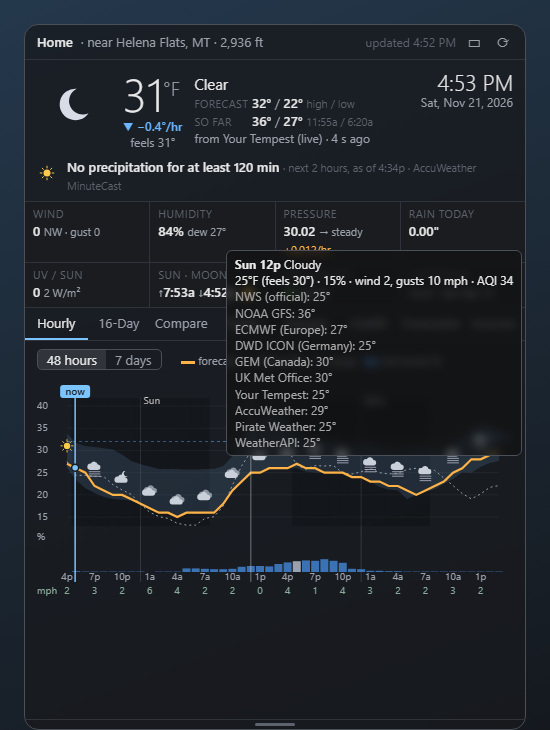
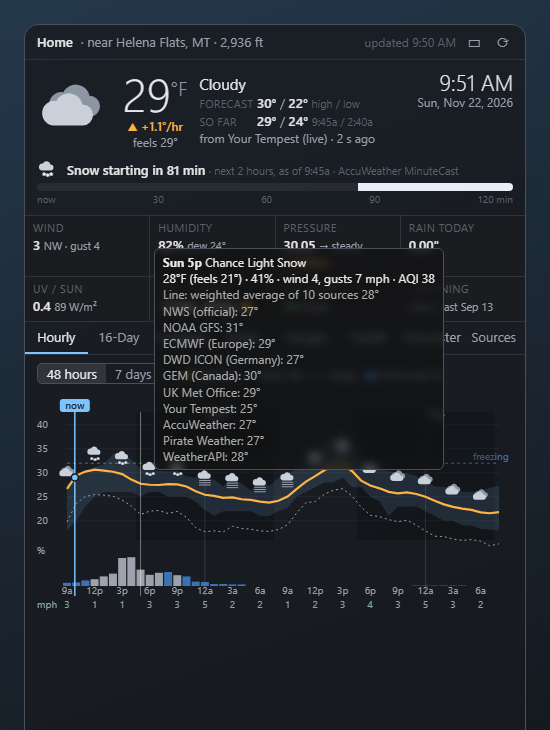
Hourly line: weighted average of all sources, starting from the station's reading
- 48 h / 7 day line is the accuracy-weighted average of every source (plain average when weighting is off), nudged to the station's live reading at now and blending back over 6 hours; feels-like moves with it; tooltip and legend explain it
- Day-ahead hourly forecast archive saves the all-source average (was NWS)
- Gauges: new 72 h graphs (Tempest history fetched for 72 h; own logs kept 74 h; day-ahead forecast overlay covers 3 days)
- 16-Day: tooltip on each day's bar explaining the bar, colours and spread ticks
- README and screenshots updated

diff --git a/panel.html b/panel.html
@@ -110,7 +110,8 @@
   .day .txt { color: var(--dim); overflow: hidden; white-space: nowrap; text-overflow: ellipsis; }
   .day .pop { color: var(--rain); text-align: right; }
   .day .lo { color: var(--cold); text-align: right; } .day .hi { color: var(--warm); }
-  .bar { position: relative; height: 6px; background: var(--track); border-radius: 3px; }
+  .bar { position: relative; height: 6px; background: var(--track); border-radius: 3px; cursor: help; }
+  .bar::before { content: ""; position: absolute; inset: -9px 0; }   /* a taller area for the tooltip */
   .bar .rng { position: absolute; top: 0; height: 6px; border-radius: 3px; }
   .bar .sp { position: absolute; top: -3px; height: 12px; border-left: 1px solid var(--mark); border-right: 1px solid var(--mark); }
   .dot { width: 8px; height: 8px; border-radius: 50%; }
@@ -443,13 +444,16 @@ function renderHourly(force) {
   }
   s += `<line id="cur" y1="${top - 8}" y2="${bot - 18}" style="stroke:var(--ccur)" visibility="hidden"/>`;
   $("t-hourly").innerHTML = `<div><span class="seg" id="span"><span data-h="48" class="${hourSpan === 48 ? "on" : ""}">48 hours</span><span data-h="168" class="${hourSpan === 168 ? "on" : ""}">7 days</span></span>
-    <span class="legend"><i style="background:var(--ctemp)"></i>forecast<i style="height:0;border-top:2px dotted var(--cfeels)" title="Wind chill when cold and windy, heat index when hot and humid; otherwise the same as the temperature"></i><span title="Wind chill when cold and windy, heat index when hot and humid; otherwise the same as the temperature">feels like</span><i style="background:var(--cband);height:8px"></i><span title="The shaded band: the lowest to highest temperature any source forecasts for that hour">range</span><i style="background:var(--crainbar);height:8px"></i><span title="Bars: chance of rain or snow (white bars = snow)">rain/snow %</span></span></div>
+    <span class="legend"><i style="background:var(--ctemp)"></i><span title="${esc(LINE_EXPLAIN)}">forecast</span><i style="height:0;border-top:2px dotted var(--cfeels)" title="Wind chill when cold and windy, heat index when hot and humid; otherwise the same as the temperature"></i><span title="Wind chill when cold and windy, heat index when hot and humid; otherwise the same as the temperature">feels like</span><i style="background:var(--cband);height:8px"></i><span title="The shaded band: the lowest to highest temperature any source forecasts for that hour">range</span><i style="background:var(--crainbar);height:8px"></i><span title="Bars: chance of rain or snow (white bars = snow)">rain/snow %</span></span></div>
     <svg id="hsvg" width="${W}" height="${bot}">${s}</svg>`;
   const svg = $("hsvg"), tip = $("tip");
   svg.onmousemove = e => {
     const r = svg.getBoundingClientRect(), i = Math.max(0, Math.min(H.length - 1, Math.round((e.clientX - r.left - 30) / ((W - 44) / (H.length - 1))))), h = H[i];
     const c = $("cur"); c.setAttribute("x1", x(i)); c.setAttribute("x2", x(i)); c.setAttribute("visibility", "visible");
-    const by = Object.entries(h.by || {}).map(([k, v]) => `<div style="color:#aaa">${k}: ${f0(v)}°</div>`).join("");
+    const nb = Object.keys(h.by || {}).length;
+    const how = `<div style="color:#aaa">Line: ${W ? "weighted " : ""}average of ${nb} source${nb === 1 ? "" : "s"} ${f0(h.temp_avg)}°` +
+      (Math.abs(h.adj) >= 0.5 ? `, moved ${h.adj > 0 ? "+" : ""}${h.adj.toFixed(0)}° toward your station's reading now` : "") + `</div>`;
+    const by = how + Object.entries(h.by || {}).map(([k, v]) => `<div style="color:#aaa">${k}: ${f0(v)}°</div>`).join("");
     tip.innerHTML = `<b>${dayName(h.t.slice(0, 10))} ${hourLabel(h.t)}</b> ${esc(h.text || "")}<br>${f0(h.temp)}°F (feels ${f0(h.feels)}°) · ${h.pop ?? 0}% · wind ${f0(h.wind)}${h.gust > h.wind ? ", gusts " + f0(h.gust) : ""} mph${h.aqi != null ? " · AQI " + h.aqi : ""}${by}`;
     tip.style.display = "block";
     const z = +document.body.style.zoom || 1, vw = innerWidth / z, vh = innerHeight / z;
@@ -476,7 +480,10 @@ function renderDaily() {
       <div>${icon(d.icon, 24)}</div><div class="txt" title="${esc(txt)}">${esc(txt)}</div>
       <div class="pop">${d.pop ? d.pop + "%" : ""}</div>
       <div class="lo">${f0(d.lo)}°</div>
-      <div class="bar"><div class="sp" style="left:${pct(d.lo_min ?? d.lo)}%;width:${pct(d.hi_max ?? d.hi) - pct(d.lo_min ?? d.lo)}%"></div>
+      <div class="bar" title="${esc(`${name}: low ${f0(d.lo)}°, high ${f0(d.hi)}° (${W ? "average of all sources, weighted so the most accurate ones count more" : "average of all sources"}).\n` +
+        `Coloured bar: from the low to the high, shaded blue (cold) through to red (warm).\n` +
+        (d.lo_min != null || d.hi_max != null ? `Thin tick marks at each end: the full spread of what the sources predict, from the coldest low (${f0(d.lo_min ?? d.lo)}°) to the warmest high (${f0(d.hi_max ?? d.hi)}°). Ticks far from the coloured bar mean the sources disagree.\n` : "") +
+        `The grey track is the same scale for every day (coldest to warmest of the 16 days), so further right = warmer.`)}"><div class="sp" style="left:${pct(d.lo_min ?? d.lo)}%;width:${pct(d.hi_max ?? d.hi) - pct(d.lo_min ?? d.lo)}%"></div>
         <div class="rng" style="left:${pct(d.lo)}%;width:${Math.max(2, pct(d.hi) - pct(d.lo))}%;background:linear-gradient(90deg,${tempColor(d.lo)},${tempColor(d.hi)})"></div></div>
       <div class="hi">${f0(d.hi)}°</div>
       <div class="dot" title="${esc(`How well the sources agree on this day: ${{ good: "GOOD", fair: "FAIR", low: "LOW" }[d.agree] || "–"}\n` +
@@ -552,6 +559,44 @@ function applyWeights() {
         if (v[k] != null) { const w = W[s] ?? W._typical; sum += v[k] * w; wsum += w; }
       if (wsum) d[k] = Math.round(sum / wsum);
     }
+  hourlyLine();
+  for (const h of D.hourly) {      // feels-like moves with the line (it came from the model's own temperature)
+    if (h.feels_raw === undefined) h.feels_raw = h.feels;
+    if (h.feels_raw != null) h.feels = h.feels_raw + h.temp - (h.temp_model ?? h.temp_nws);
+  }
+}
+// The hourly temperature line: the same (weighted) average of every source for each hour, then
+// nudged to your station's actual reading - fully at "now", fading out over the next BLEND_H hours.
+const BLEND_H = 6;
+const LINE_EXPLAIN = "The line: for each hour, the average of every source's forecast, weighted so the sources " +
+  "that have been most accurate at your place count more (switch on the Compare tab).\n" +
+  "Near now it also starts from your station's actual reading and blends back into the forecast over " +
+  "the next 6 hours, so the line doesn't start off from where the temperature really is.\n" +
+  "Sky, icons and rain chances still follow the National Weather Service where it has hours.";
+let blend = null;    // {off, until} when the station nudge is in use (for tooltips)
+function hourlyLine() {
+  for (const h of D.hourly) {
+    if (h.temp_nws === undefined) h.temp_nws = h.temp;     // what the backend sent (NWS where it has hours)
+    let sum = 0, wsum = 0;
+    for (const [s, v] of Object.entries(h.by || {}))
+      if (v != null) { const w = W ? (W[s] ?? W._typical) : 1; sum += v * w; wsum += w; }
+    h.temp_avg = wsum ? sum / wsum : h.temp_nws;
+    h.temp = h.temp_avg; h.adj = 0;
+  }
+  blend = null;
+  const n = D.now, H = D.hourly;
+  if (!n || n.temp == null || /model/i.test(n.station || "") || !H.length) return;
+  const nowMs = Date.now(), age = (nowMs - new Date(n.time)) / 60000;
+  if (!(age < 60)) return;                                  // only a fresh reading
+  const frac = (nowMs - new Date(H[0].t)) / 3600000, i0 = Math.floor(frac);
+  if (frac < 0 || i0 >= H.length - 1) return;
+  const fc = H[i0].temp + (H[i0 + 1].temp - H[i0].temp) * (frac - i0);
+  const off = n.temp - fc;
+  if (Math.abs(off) > 25) return;                           // a station glitch, not weather
+  H.forEach(h => { const ahead = (new Date(h.t) - nowMs) / 3600000;
+    const f = ahead <= 0 ? 1 : Math.max(0, 1 - ahead / BLEND_H);
+    h.adj = off * f; h.temp = h.temp_avg + h.adj; });
+  blend = { off, station: n.station, until: new Date(nowMs + BLEND_H * 3600000) };
 }
 const shareOf = s => { if (!W) return null; const tot = Object.keys(D.days[1]?.by || {}).reduce((t, x) => t + (W[x] ?? W._typical), 0);
   return Math.round((W[s] ?? W._typical) / tot * 100); };
@@ -801,9 +846,12 @@ function mercuryTubes(n, g) {
   return `<svg viewBox="0 0 ${W} ${H}" style="width:100%;height:auto;display:block">${s}</svg>`;
 }
 
-// Trend graphs: the last 24 hours of pressure, temperature and wind.
-function trendGraphs(n, g) {
-  const W = Math.max(320, innerW()), now = Date.now() / 1000, t0 = now - 24 * 3600;
+// Trend graphs: the last 24 or 72 hours of pressure, temperature and wind.
+function trendGraphs(n, g, hours = 24) {
+  const W = Math.max(320, innerW()), now = Date.now() / 1000, t0 = now - hours * 3600;
+  const every = hours > 24 ? 12 : 6, bw = hours > 24 ? 1.5 : 3;
+  const lab = e => { const d = new Date(e * 1000), hr = d.toLocaleTimeString("en-US", { hour: "numeric" });
+    return hours > 24 ? d.toLocaleDateString("en-US", { weekday: "short" }) + " " + hr.replace(" ", "").replace("M", "").toLowerCase() : hr; };
   const chart = (title, rows, series, opts) => {
     const pts = rows.filter(r => r[0] >= t0);
     if (pts.length < 2) return `<div class="gcap">${title}: not enough history yet</div>`;
@@ -824,15 +872,15 @@ function trendGraphs(n, g) {
       <text x="${W - Rr}" y="14" text-anchor="end" style="fill:var(--dim);font-size:11px">${opts.summary}</text>`;
     for (let k = 0; k <= 4; k++) { const v = lo + (hi - lo) * k / 4, y = Y(v);
       s += `<line x1="${L}" x2="${W - Rr}" y1="${y}" y2="${y}" style="stroke:var(--cgrid)"/><text x="${L - 4}" y="${y + 3}" text-anchor="end" style="fill:var(--faint);font-size:9px">${opts.fmt(v)}</text>`; }
-    for (let hAgo = 24; hAgo >= 0; hAgo -= 6) { const x = X(now - hAgo * 3600);
-      s += `<line x1="${x}" x2="${x}" y1="${T}" y2="${T + ih}" style="stroke:var(--cgrid)"/><text x="${x}" y="${h - 4}" text-anchor="middle" style="fill:var(--faint);font-size:9px">${hAgo ? new Date((now - hAgo * 3600) * 1000).toLocaleTimeString("en-US", { hour: "numeric" }) : "now"}</text>`; }
+    for (let hAgo = hours; hAgo >= 0; hAgo -= every) { const x = X(now - hAgo * 3600);
+      s += `<line x1="${x}" x2="${x}" y1="${T}" y2="${T + ih}" style="stroke:var(--cgrid)"/><text x="${x}" y="${h - 4}" text-anchor="middle" style="fill:var(--faint);font-size:9px">${hAgo ? lab(now - hAgo * 3600) : "now"}</text>`; }
     if (ov.length > 1) {
       const xs = r => Math.max(L, Math.min(W - Rr, X(r[0])));
       s += `<path d="M${ov.map(r => `${xs(r).toFixed(1)} ${Y(r[1]).toFixed(1)}`).join("L")}" fill="none" style="stroke:${opts.overlay.c}" stroke-width="1.8" stroke-dasharray="2 3"/>`;
     }
     for (const sr of series) {
       const p = pts.filter(r => r[sr.i] != null);
-      if (sr.bars) s += p.map(r => `<rect x="${X(r[0]) - 1.5}" y="${Y(r[sr.i])}" width="3" height="${T + ih - Y(r[sr.i])}" style="fill:${sr.c}" opacity=".55"/>`).join("");
+      if (sr.bars) s += p.map(r => `<rect x="${X(r[0]) - bw / 2}" y="${Y(r[sr.i])}" width="${bw}" height="${T + ih - Y(r[sr.i])}" style="fill:${sr.c}" opacity=".55"/>`).join("");
       else s += `<path d="M${p.map(r => `${X(r[0]).toFixed(1)} ${Y(r[sr.i]).toFixed(1)}`).join("L")}" fill="none" style="stroke:${sr.c}" stroke-width="2"/>`;
     }
     for (const m of opts.marks || []) if (m.v != null) s += `<circle cx="${X(m.t)}" cy="${Y(m.v)}" r="3.5" style="fill:${m.c}"><title>${esc(m.title)}</title></circle>`;
@@ -841,24 +889,25 @@ function trendGraphs(n, g) {
     s += pts.map(r => `<rect x="${X(r[0]) - step / 2}" y="${T}" width="${step}" height="${ih}" fill="transparent"><title>${new Date(r[0] * 1000).toLocaleTimeString("en-US", { hour: "numeric", minute: "2-digit" })}: ${opts.tip(r)}</title></rect>`).join("");
     return `<svg width="${W}" height="${h}" style="display:block;margin-bottom:4px">${s}</svg>`;
   };
-  const p = g?.p_hist || [], t = g?.t_hist || [], w = g?.w_hist || [];
+  const inWin = rows => (rows || []).filter(r => r[0] >= t0);
+  const p = inWin(g?.p_hist), t = inWin(g?.t_hist), w = inWin(g?.w_hist);
   const pc = p.length > 1 ? p[p.length - 1][1] - p[0][1] : null;
   const tmin = t.length ? t.reduce((a, r) => r[1] < a[1] ? r : a) : null, tmax = t.length ? t.reduce((a, r) => r[1] > a[1] ? r : a) : null;
   const gmax = w.length ? w.reduce((a, r) => r[2] > a[2] ? r : a) : null;
   // forecast made a day ahead vs what the station measured
   const fc = g?.f_hist || [];
   const fcAt = e => { let best = null; for (const r of fc) if (Math.abs(r[0] - e) <= 2400 && (!best || Math.abs(r[0] - e) < Math.abs(best[0] - e))) best = r; return best; };
-  const pairs = t.filter(r => r[0] >= now - 24 * 3600).map(r => [r, fcAt(r[0])]).filter(([, f]) => f);
+  const pairs = t.map(r => [r, fcAt(r[0])]).filter(([, f]) => f);
   const miss = pairs.length ? pairs.reduce((a, [r, f]) => a + Math.abs(f[1] - r[1]), 0) / pairs.length : null;
   const bias = pairs.length ? pairs.reduce((a, [r, f]) => a + (f[1] - r[1]), 0) / pairs.length : null;
   const fcBy = [...new Set(fc.map(r => r[2]))].map(b => b === "panel" ? "WeatherDial's own forecast line" : "Open-Meteo's archive of past forecasts").join(" and ");
   const fcTip = `Dotted line: the temperature forecast for each hour about a day ahead (from ${fcBy || "–"}), ` +
     `compared with what your station actually measured (solid line).` +
-    (miss != null ? `\nOver the last 24 hours it was off by ${miss.toFixed(1)}° on average` +
+    (miss != null ? `\nOver the last ${hours} hours it was off by ${miss.toFixed(1)}° on average` +
       (Math.abs(bias) >= 0.75 ? `, running ${Math.abs(bias).toFixed(1)}° too ${bias > 0 ? "warm" : "cold"}.` : `, with no lean warm or cold.`) : "");
   return chart("Pressure (sea level, in)", p, [{ i: 1, c: "var(--accent)" }],
       { fmt: v => v.toFixed(2), minSpan: .1, tip: r => `${r[1].toFixed(2)} in`,
-        summary: pc != null ? `${pc >= 0 ? "+" : ""}${pc.toFixed(2)} in over 24 h · ${{ rising: "↗ rising", falling: "↘ falling", steady: "→ steady" }[n.trend] || ""}` : "" }) +
+        summary: pc != null ? `${pc >= 0 ? "+" : ""}${pc.toFixed(2)} in over ${hours} h · ${{ rising: "↗ rising", falling: "↘ falling", steady: "→ steady" }[n.trend] || ""}` : "" }) +
     chart("Temperature (°F)", t, [{ i: 1, c: "var(--ctemp)" }],
       { fmt: v => Math.round(v) + "°", minSpan: 4,
         tip: r => { const f = fcAt(r[0]); return `${r[1].toFixed(1)}°F measured` + (f ? `, forecast a day ahead ${f[1].toFixed(1)}°F (${f[1] - r[1] >= 0 ? "+" : ""}${(f[1] - r[1]).toFixed(1)}°)` : ""); },
@@ -932,7 +981,7 @@ const HELP = () => ({
       <li><b>Rain gauge</b>: the water is today's rain since midnight. The scale grows with the amount. The dashed orange line is yesterday's total (needs the Tempest token).</li></ul>
     <p style="color:var(--dim)">Hover an arrow or line for its exact value.</p>`,
   graphs: `<h3>Reading the trend graphs</h3><ul>
-      <li>Each graph shows the <b>last 24 hours</b> from your station, oldest on the left and <b>now</b> on the right.</li>
+      <li>Each graph shows the <b>last 24 hours</b> (or <b>72 hours</b> with the "72 h" button) from your station, oldest on the left and <b>now</b> on the right. The 72-hour view is good for spotting a slow pressure fall over a few days, or a warming or cooling trend.</li>
       <li><b>Pressure</b> (sea level): the line's slope is what matters. Going up means improving; going down means change on the way. A drop of more than about 0.06 in within 3 hours often comes before a storm or strong wind. The summary on the right gives the 24-hour change.</li>
       <li><b>Temperature</b>: the solid line is what your station <b>measured</b>; the <span style="color:#2a74c9">blue</span> dot marks the lowest point and the <span style="color:#d9443a">red</span> dot the highest in the last 24 hours.</li>
       <li>The <b>dotted line</b> is what was <b>forecast a day ahead</b> for each of those hours (WeatherDial's own forecast line once it has saved a day of them; until then Open-Meteo's archive of past forecasts). Where the dotted line sits above the solid one, the forecast was too warm; below, too cold. The summary at the top right gives the average miss.</li>
@@ -946,8 +995,8 @@ function renderGauges() {
   let body;
   if (gStyle === "tubes") {
     body = `<div style="max-width:${Math.max(300, Math.min(innerW(), (tabH - 50) * 480 / 330))}px;margin:0 auto">${mercuryTubes(n, g)}</div>`;
-  } else if (gStyle === "graphs") {
-    body = trendGraphs(n, g);
+  } else if (gStyle === "graphs" || gStyle === "graphs72") {
+    body = trendGraphs(n, g, gStyle === "graphs72" ? 72 : 24);
   } else if (gStyle === "classic") {
     const size = Math.max(240, Math.min(innerW(), tabH - 70));
     const d24 = g.p_24h != null && n.pressure ? +n.pressure - g.p_24h : null;
@@ -972,9 +1021,9 @@ function renderGauges() {
       ${windDial(n)}</div>`;
   }
   const opt = (k, label) => `<span data-g="${k}" class="${gStyle === k ? "on" : ""}">${label}</span>`;
-  box.innerHTML = `<div class="gbar"><span class="seg" id="gseg">${opt("classic", "Barometer")}${opt("dials", "Dials")}${opt("tubes", "Tubes")}${opt("graphs", "24 h graphs")}</span>
+  box.innerHTML = `<div class="gbar"><span class="seg" id="gseg">${opt("classic", "Barometer")}${opt("dials", "Dials")}${opt("tubes", "Tubes")}${opt("graphs", "24 h graphs")}${opt("graphs72", "72 h")}</span>
       <span class="help" id="ghelp">ⓘ How to read</span></div>${body}
-    ${helpOpen ? `<div class="helpbox"><span class="x" id="gx" title="Close">✕</span>${HELP()[gStyle]}</div>` : ""}`;
+    ${helpOpen ? `<div class="helpbox"><span class="x" id="gx" title="Close">✕</span>${HELP()[gStyle === "graphs72" ? "graphs" : gStyle]}</div>` : ""}`;
 }
 document.addEventListener("click", e => {
   const s = e.target.closest("#gseg span");

diff --git a/weather.py b/weather.py
@@ -20,6 +20,8 @@ from pathlib import Path
 
 HERE = Path(__file__).resolve().parent
 DATA = HERE / "data"
+HIST_HOURS = 72                  # the Gauges tab's longest graphs
+HIST_KEEP = (HIST_HOURS + 2) * 3600
 CACHE = DATA / "cache"
 UA = "WeatherDial/0.1 (personal desktop weather widget)"
 UTC = dt.timezone.utc
@@ -403,6 +405,7 @@ def src_tempest(cfg, keys, clock):
     if device:
         midnight = clock.from_epoch(time.time()).replace(hour=0, minute=0, second=0, microsecond=0)
         start = int(time.time() - (clock.from_epoch(time.time()) - midnight).total_seconds()) - 86400
+        start = min(start, int(time.time()) - HIST_HOURS * 3600)   # also the 72 h graphs
         h = get(f"https://swd.weatherflow.com/swd/rest/observations/device/{device}"
                 f"?time_start={start}&time_end={int(time.time())}&token={urllib.parse.quote(tok)}")
         wind_max = wind_from_obs(h.get("obs") or [], clock)
@@ -509,9 +512,12 @@ def record_hourly_forecast(hourly, now_local):
     arc = load_json(HOURLY_FC, {})
     for row in hourly:
         lead = (dt.datetime.fromisoformat(row["t"]) - now_local).total_seconds() / 3600
-        if 20 <= lead <= 28 and row.get("temp") is not None:
-            arc[row["t"]] = row["temp"]
-    cutoff = (now_local - dt.timedelta(days=3)).strftime("%Y-%m-%dT%H:00")
+        # the average of all sources, like the panel's line (the panel also weights it by accuracy)
+        vals = [v for v in (row.get("by") or {}).values() if v is not None]
+        temp = round(sum(vals) / len(vals), 1) if vals else row.get("temp")
+        if 20 <= lead <= 28 and temp is not None:
+            arc[row["t"]] = temp
+    cutoff = (now_local - dt.timedelta(days=4)).strftime("%Y-%m-%dT%H:00")
     save_if_changed(HOURLY_FC, {k: v for k, v in arc.items() if k >= cutoff})
 
 
@@ -519,14 +525,14 @@ def src_past_forecast(cfg, keys, clock):
     """Open-Meteo's archive of past runs: what was forecast a day earlier for each recent hour.
     Fills the dotted line until WeatherDial has saved a day of its own forecasts."""
     d = get(f"https://previous-runs-api.open-meteo.com/v1/forecast?latitude={cfg['lat']}&longitude={cfg['lon']}"
-            "&hourly=temperature_2m_previous_day1&past_days=2&forecast_days=1"
+            "&hourly=temperature_2m_previous_day1&past_days=4&forecast_days=1"
             "&temperature_unit=fahrenheit&timezone=auto")["hourly"]
     return {"daily": [], "hourly": [],
             "past_fc": [[t[:13] + ":00", v] for t, v in zip(d["time"], d["temperature_2m_previous_day1"]) if v is not None]}
 
 
 def past_hourly_forecast(past_src, clock):
-    """[[epoch, temp, made_by]] for the last 26 hours: the panel's own day-ahead forecast where
+    """[[epoch, temp, made_by]] for the last 74 hours: the panel's own day-ahead forecast where
     saved, else Open-Meteo's."""
     own = load_json(HOURLY_FC, {})
     om = dict(past_src.get("past_fc") or [])
@@ -534,7 +540,7 @@ def past_hourly_forecast(past_src, clock):
     out = []
     for key in sorted(set(own) | set(om)):
         e = (dt.datetime.fromisoformat(key).replace(tzinfo=UTC) - clock.off).timestamp()
-        if 0 <= now - e <= 26 * 3600:
+        if 0 <= now - e <= HIST_KEEP:
             out.append([int(e), own[key], "panel"] if key in own else [int(e), om[key], "Open-Meteo"])
     return out
 
@@ -696,11 +702,11 @@ def src_local_station(cfg, keys, clock):
             r, why = None, f"{via}: last reading {round(age / 60)} min ago"
     if not r:
         return {"daily": [], "hourly": [], "now": None, "note": why}
-    # Pressure log (last 26 hours, a point every 5 minutes) for the trend and the gauges.
+    # Pressure log (last 74 hours, a point every 5 minutes) for the trend and the gauges.
     plog = load_json(DATA / "pressure_log.json", [])
     now_t = time.time()
     if r["pressure"] is not None:
-        plog = [p for p in plog if now_t - p[0] < 26 * 3600]
+        plog = [p for p in plog if now_t - p[0] < HIST_KEEP]
         if len(plog) >= 2 and now_t - plog[-2][0] < 300:
             plog[-1] = [now_t, r["pressure"]]          # keep the newest value, a point per 5 min
         else:
@@ -1094,8 +1100,8 @@ def gauge_data(now, tem_extra, today):
     if tp and p_now:
         # Tempest history is station pressure; shift it to sea level using the live reading.
         offset = float(p_now) - tp[-1][1] * 0.0295300
-        hist = [[e, round(mb * 0.0295300 + offset, 3)] for e, mb in tp if t - e <= 26 * 3600]
-    own = [p for p in load_json(DATA / "pressure_log.json", []) if t - p[0] <= 26 * 3600]
+        hist = [[e, round(mb * 0.0295300 + offset, 3)] for e, mb in tp if t - e <= HIST_KEEP]
+    own = [p for p in load_json(DATA / "pressure_log.json", []) if t - p[0] <= HIST_KEEP]
     if hist:
         hist += [p for p in own if p[0] > hist[-1][0]]
     else:
@@ -1116,12 +1122,12 @@ def gauge_data(now, tem_extra, today):
     # Temperature and wind for the trend graphs: Tempest history, else our own 5-minute log
     # of whatever station supplies "now" (kept 26 hours).
     hpath = DATA / "hist_log.json"
-    hl = [r for r in load_json(hpath, []) if t - r[0] <= 26 * 3600]
+    hl = [r for r in load_json(hpath, []) if t - r[0] <= HIST_KEEP]
     if now.get("temp") is not None and (not hl or t - hl[-1][0] >= 300):
         hl.append([t, now.get("temp"), now.get("wind"), now.get("gust")])
         save_json(hpath, hl)
-    th = [r for r in tem_extra.get("t_hist") or [] if t - r[0] <= 26 * 3600]
-    wh = [r for r in tem_extra.get("w_hist") or [] if t - r[0] <= 26 * 3600]
+    th = [r for r in tem_extra.get("t_hist") or [] if t - r[0] <= HIST_KEEP]
+    wh = [r for r in tem_extra.get("w_hist") or [] if t - r[0] <= HIST_KEEP]
     if th:
         th += [[r[0], r[1]] for r in hl if r[0] > th[-1][0]]
     else:
@@ -1174,12 +1180,12 @@ def gauge_data(now, tem_extra, today):
         now["trend"] = "rising" if diff > .03 else "falling" if diff < -.03 else "steady"
     # temperature every 15 minutes, but always keep the true highest and lowest readings
     t_s = sample(th)
-    last24 = [r for r in th if t - r[0] <= 24 * 3600]
-    if last24:
-        for r in (max(last24, key=lambda r: r[1]), min(last24, key=lambda r: r[1])):
+    for hours in (24, HIST_HOURS):        # the 24 h and 72 h graphs each show their own extremes
+        last = [r for r in th if t - r[0] <= hours * 3600]
+        for r in (max(last, key=lambda r: r[1]), min(last, key=lambda r: r[1])) if last else ():
             if [int(r[0]), r[1]] not in t_s:
                 t_s.append([int(r[0]), r[1]])
-        t_s.sort()
+    t_s.sort()
     return {"p_hist": sampled, "p_3h": p3, "p_24h": at(24 * 3600),
             "t_hist": t_s, "w_hist": w_s, "t_rate_1h": t_rate, "p_rate_1h": p_rate,
             "t_today": day}
@@ -1339,6 +1345,7 @@ def fetch(force=False):
     hourly = []
     for h in detail_h:
         row = dict(h)
+        row["temp_model"] = row["temp"]     # Open-Meteo's own value; the panel shifts feels-like with it
         row["by"] = {name: m[h["t"]]["temp"] for name, m in by_hour.items() if h["t"] in m}
         nh = by_hour.get("NWS (official)", {}).get(h["t"])
         if nh:     # official forecast leads where it exists

diff --git a/README.md b/README.md
@@ -40,13 +40,13 @@ forecasters' discussion). Elsewhere everything else still works.
     notification** shows what a notification looks like.
 - **Next 2 hours** *(AccuWeather MinuteCast, optional)*: e.g. "Rain starting in 6 min", with
   a 2-hour bar (blue rain, white snow, purple ice).
-- **Hourly:** a 48-hour or 7-day chart. It shows the forecast line (the official NWS forecast
-  where it has one), a shaded band for the range of all sources, feels-like (dotted),
+- **Hourly:** a 48-hour or 7-day chart. It shows the forecast line (the average of every source,
+  weighted by accuracy, and starting from your station's actual reading), a shaded band for the range of all sources, feels-like (dotted),
   chance of rain or snow (blue bars for rain, white for snow), wind, night shading and the
   freezing line. A blue **now** line (with a dot on the temperature line) marks the current
   moment.
 - **16-Day:** the average of all sources for each day (weighted by accuracy, see below), with a coloured dot for how well they
-  agree.
+  agree. Hover a day's bar for what the bar, its colours and the end ticks mean.
 - **Compare:** every source's highs and lows side by side, plus the current readings from
   your station, the nearest airport and the model.
 - **Accuracy** (Compare and Sources): a badge per source showing how close its next-day
@@ -55,7 +55,7 @@ forecasters' discussion). Elsewhere everything else still works.
 - **Radar:** an animated loop of the last 80 minutes, starting on the newest frame.
   ⏸ Pause / ▶ Play, ◀ ▶ to step one frame at a time, **Latest** to jump to the newest frame
   (pausing is remembered).
-- **Gauges:** your station as instruments, in four styles (your choice is remembered):
+- **Gauges:** your station as instruments, in five styles (your choice is remembered):
   - *Barometer*: laid out like the classic Rainmeter "WeatherStation" barometer. A white
     aneroid face with *Stormy, Rain, Change, Fair, Very Dry* in Old English lettering,
     29 / 30 / 31 inches with half-inch "5"s, a millibar ring, and the "falling denotes
@@ -72,6 +72,9 @@ forecasters' discussion). Elsewhere everything else still works.
     bars) for the last 24 hours. The temperature graph also has a **dotted line: the forecast
     made a day ahead** for each hour, with the average miss at the top right. Hover for the
     reading (and the forecast) at any time.
+  - *72 h*: the same three graphs over the last 3 days, for slow pressure falls and warming
+    or cooling trends. Needs the Tempest token for the full 3 days at once; otherwise it fills
+    in from WeatherDial's own readings while it runs.
   - **ⓘ How to read** opens a short guide for the style shown, including what rising and
     falling pressure usually mean. The gauges grow with the panel when you make it bigger.
 - **Health** *(AccuWeather indices, optional)*: today and the next 4 days for health
@@ -104,7 +107,7 @@ forecasters' discussion). Elsewhere everything else still works.
 |---|---|---|
 | ![Barometer](docs/screenshots/gauges-classic-big.png) | ![Dials](docs/screenshots/gauges-light.png) | ![Help](docs/screenshots/gauges-help.png) |
 
-| Gauges: Tubes | Gauges: 24 h graphs |
+| Gauges: Tubes | Gauges: 72 h graphs |
 |---|---|
 | ![Tubes](docs/screenshots/gauges-tubes.png) | ![Graphs](docs/screenshots/gauges-graphs.png) |
 
@@ -229,7 +232,7 @@ forecast in the average.
 | RainViewer + Esri map | none | Radar | when you open the Radar tab |
 | Your Tempest hub (home network) | none | Your station live: temperature, humidity, wind, pressure, rain, UV, lightning | every 15 s (the hub sends every 3 s to 1 min) |
 | Weather Display (instead of the hub) | none | The same, read from Weather Display's `sentwurapiddata.txt` | every 15 s |
-| Tempest cloud | `tempest_token`: tempestwx.com → Settings → Data Authorizations → Create Token | Lightning, yesterday's rain, the last 24 hours, Tempest's own 10-day and hourly forecast. Also the live readings if the hub can't be heard (every 5 min). | every 5 min |
+| Tempest cloud | `tempest_token`: tempestwx.com → Settings → Data Authorizations → Create Token | Lightning, yesterday's rain, the last 72 hours, Tempest's own 10-day and hourly forecast. Also the live readings if the hub can't be heard (every 5 min). | every 5 min |
 | Weather.com | `weathercom`: free for Weather Underground station owners, at wunderground.com/member/api-keys | weather.com's 5-day forecast (this key doesn't include hourly or 7/10-day) | every 30 min |
 | AccuWeather | `accuweather`: developer.accuweather.com (free trial, then paid plans) | 15-day and up to 120-hour forecast, depending on your plan (it checks once a day what the plan allows, so an upgrade is picked up automatically) | every 60 min (2 requests each, ~48 a day). The trial allows 500 a day and paid plans more, so set `source_minutes` to refresh it faster. |
 | AccuWeather MinuteCast | same `accuweather` key; in the trial, then a paid add-on | Rain or snow minute by minute for the next 2 hours. Hidden if your plan doesn't include it. | every 30 min (~48 a day; the trial allows 50) |
@@ -273,8 +276,14 @@ Underground. Weather Display can do that upload for you.
 - **Compare colours:** each cell is high/low. A **red** number is 4° or more **warmer** than
   that day's average; a **blue** one is 4° or more **colder**. White is within 4°.
 - **Spread (highs):** the warmest minus the coldest high for that day.
-- **Hourly line:** the NWS hourly forecast where it has one (about 6 days), then Open-Meteo's
-  blend. The shaded band is the range of all sources for that hour.
+- **Hourly line:** for each hour, the average of every source's forecast, weighted by accuracy
+  like the 16-Day highs and lows (plain average when the Compare switch is off). Near now the
+  line starts at your station's actual reading and blends back into the forecast over the next
+  6 hours, so a source that's running warm or cold this morning doesn't pull the line away from
+  reality. Hover an hour to see the average and how far it was moved. Sky, icons and rain
+  chances still follow the NWS hourly forecast where it has one (about 6 days), then
+  Open-Meteo's blend. The shaded band is the range of all sources for that hour; the dotted
+  forecast-vs-actual line on the Gauges tab records this average as it stood a day ahead.
 
 ## How accuracy is scored
 
